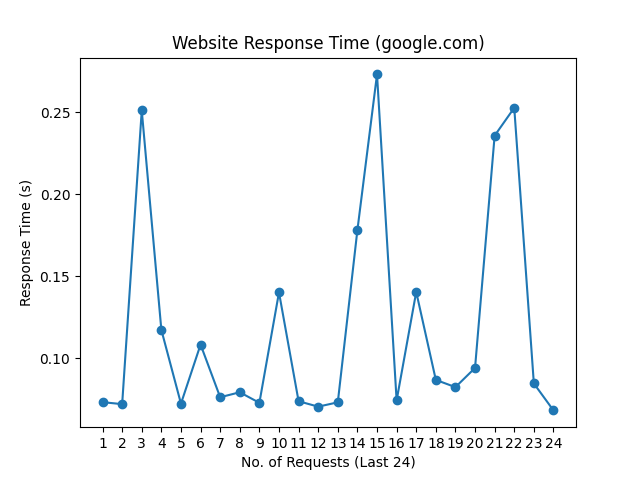
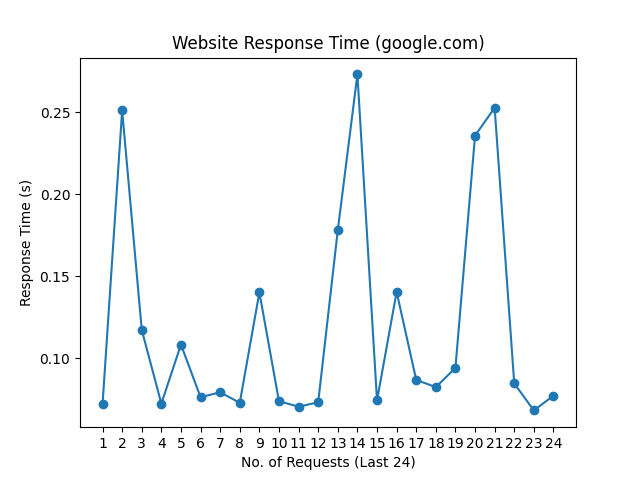
update README.md, history and graph

Changed region(s): [[0.1562, 0.125, 0.875, 0.875]]

diff --git a/README.md b/README.md
@@ -1,10 +1,10 @@
 # Web Monitoring
 
-Last Checked: 19/10/2024 08:19
+Last Checked: 20/10/2024 08:21
 
 | Website | Response Time (s) | Status | Avg Uptime (%) |
 |---------|-------------------|--------|----------------|
 | www.thiswebsiteisdown.net | 0 <br> <img src="graph/thiswebsiteisdown.net.png" alt="Graph" width="200" height="200">  | ❌ Down | 0.00 |
-| www.netflix.com | 1.312307 <br> <img src="graph/netflix.com.png" alt="Graph" width="200" height="200">  | ✅ Up | 100.00 |
-| www.google.com | 0.068225 <br> <img src="graph/google.com.png" alt="Graph" width="200" height="200">  | ✅ Up | 100.00 |
-| www.facebook.com | 0.327816 <br> <img src="graph/facebook.com.png" alt="Graph" width="200" height="200">  | ✅ Up | 100.00 |
+| www.netflix.com | 1.158997 <br> <img src="graph/netflix.com.png" alt="Graph" width="200" height="200">  | ✅ Up | 100.00 |
+| www.google.com | 0.077176 <br> <img src="graph/google.com.png" alt="Graph" width="200" height="200">  | ✅ Up | 100.00 |
+| www.facebook.com | 1.063011 <br> <img src="graph/facebook.com.png" alt="Graph" width="200" height="200">  | ✅ Up | 100.00 |
